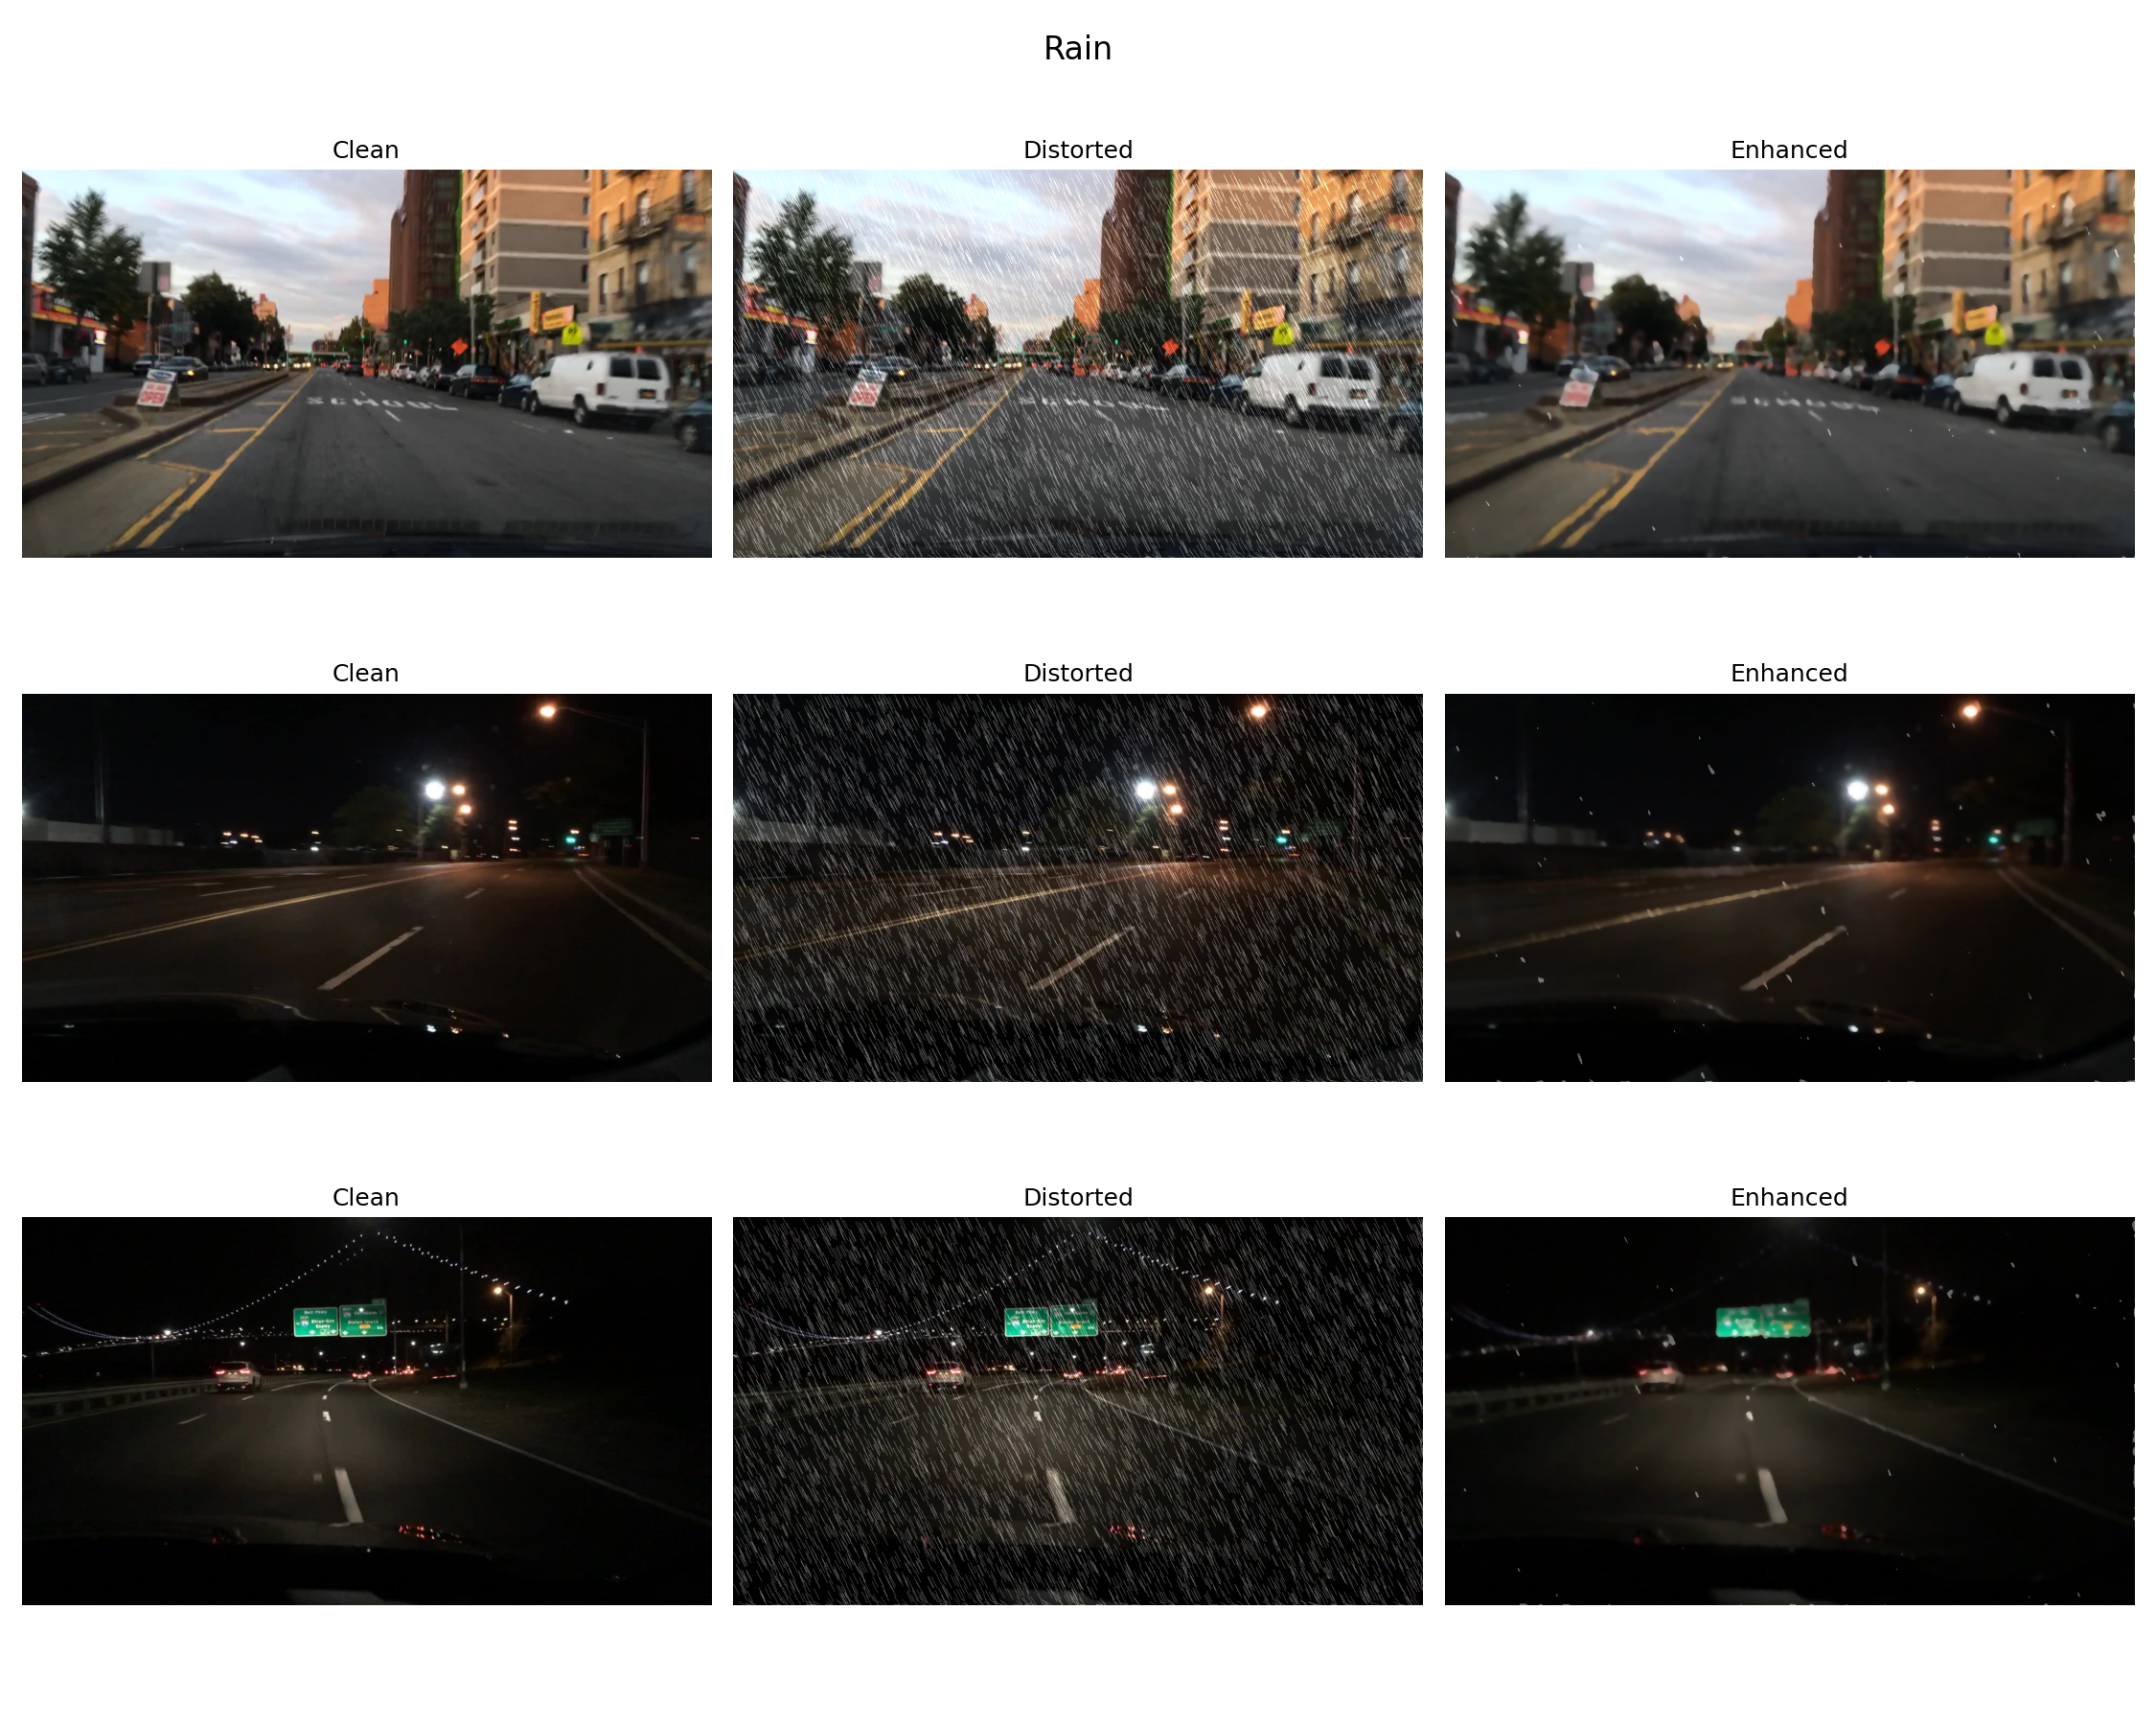
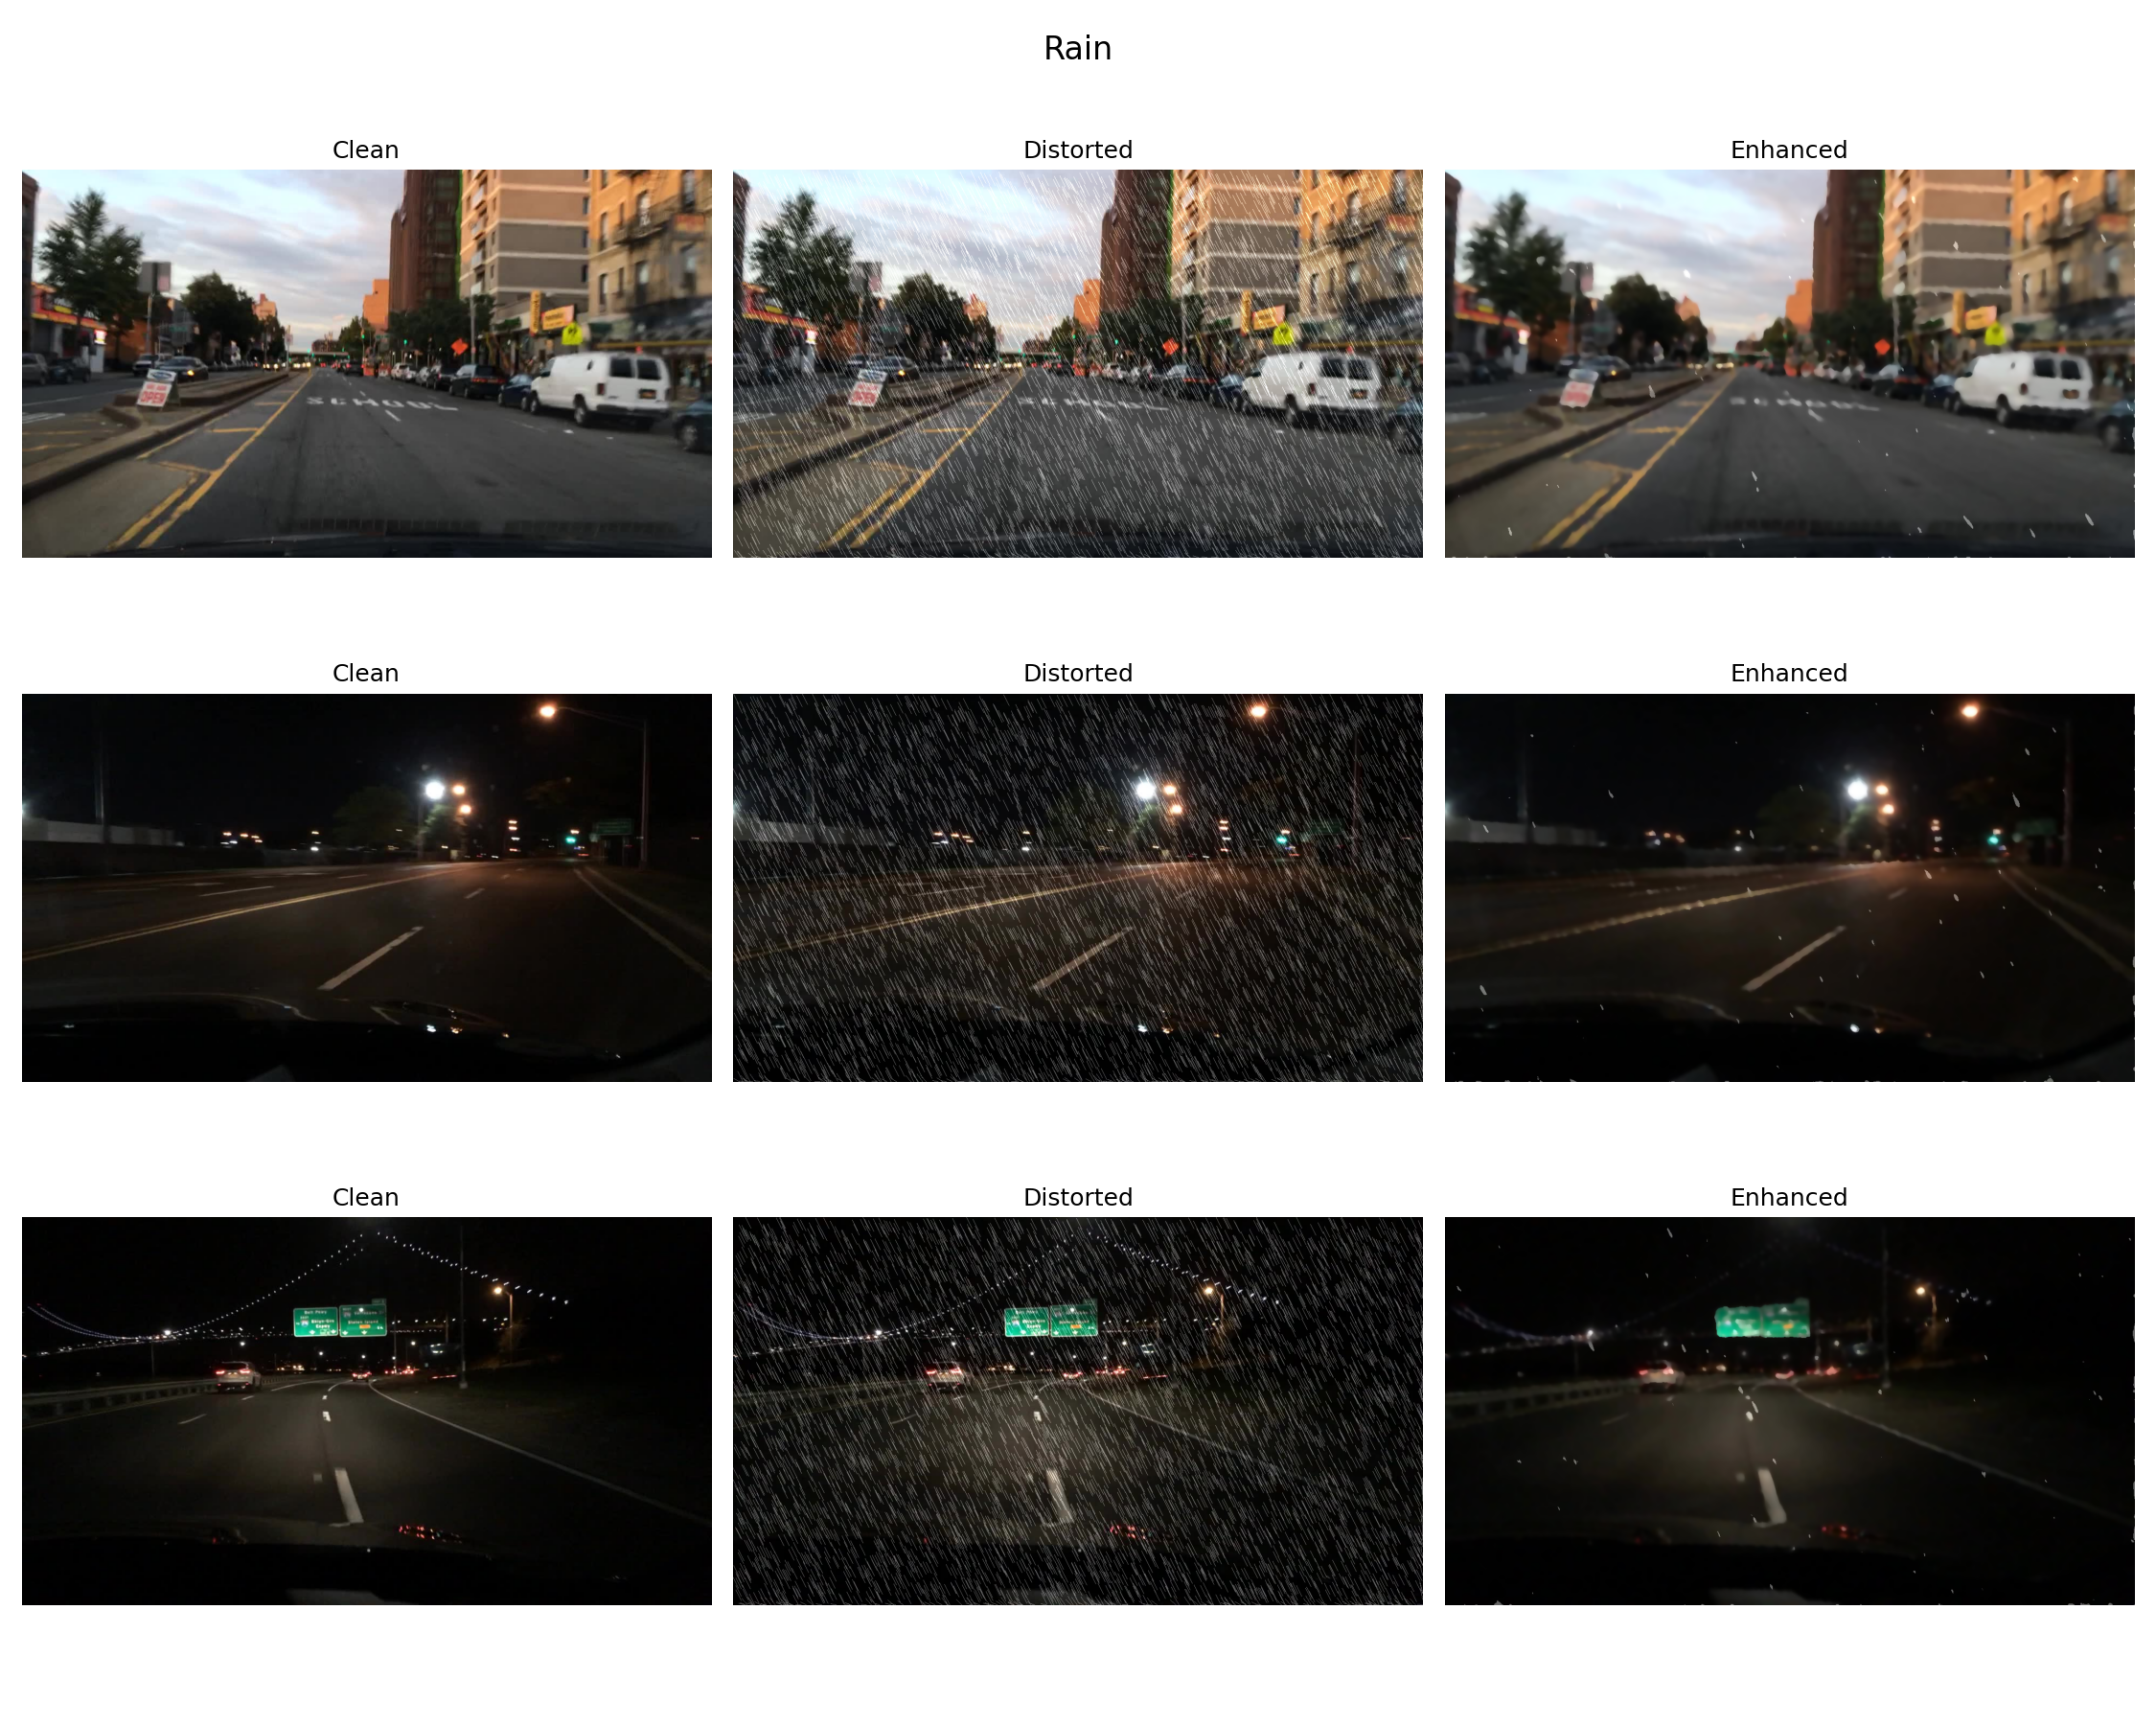
readme and results

Changed region(s): [[0.3422, 0.0933, 0.6844, 0.3422], [0.3422, 0.6844, 0.6533, 0.9333], [0.3422, 0.4044, 0.6533, 0.6222]]

diff --git a/README.md b/README.md
@@ -1,22 +1,278 @@
-# Image-processing
+# Robustness of Vision Algorithms Under Image Distortions
 
-## Dataset
+Image Processing & Computer Vision, Course Project
 
-This project uses the BDD100K dataset from Kaggle:
+## What is this project about?
 
-[https://www.kaggle.com/datasets/marquis03/bdd100k](https://www.kaggle.com/datasets/marquis03/bdd100k)
+Real-world cameras don't produce perfect images. Sensor noise, motion blur, and bad weather all degrade image quality. But most vision models are trained and tested on clean data. So what happens when we throw distorted images at them? Do they break? Can we fix them?
 
-The dataset is not included in this repository because it is too large.
+In this project we take three different vision tasks, apply three types of image distortions, and measure how badly performance drops. Then we try two recovery strategies: classical image enhancement and model fine-tuning.
 
-Download the dataset from Kaggle, unzip it, and place the files in the following structure:
+---
 
-```text
+## The Dataset
+
+We use BDD100K, a large-scale driving dataset with 70K training and 10K validation images. Every image comes from a dashboard camera and has multiple annotations:
+
+- Bounding boxes for cars, people, trucks, etc.
+- Drivable area polygons showing where the car can drive
+- Scene labels like city street, highway, or residential
+
+This means we can run three completely different tasks on the same images.
+
+---
+
+## The Three Tasks
+
+### Task 1: Object Detection (YOLOv8n)
+Find and label objects in the image. We use a pretrained YOLOv8n, a deep learning model trained on COCO. It knows how to detect people, cars, buses, trucks, motorcycles, and traffic lights.
+
+### Task 2: Drivable Area Segmentation (SegFormer-b0)
+Label every pixel as road or not road. We use SegFormer-b0, a deep learning model pretrained on Cityscapes (another driving dataset), so it already understands what a road looks like.
+
+### Task 3: Scene Classification (HOG + SVM)
+Classify the entire image as city street, highway, or residential. This is our classical (non-DL) task. We extract HOG features (which capture edge patterns) and feed them to an SVM classifier trained on BDD100K labels.
+
+This gives us two high-level DL tasks and one low-level classical task, as required by the project.
+
+---
+
+## The Three Distortions
+
+We apply three types of image degradation. All of them preserve image geometry, so the ground truth annotations stay valid.
+
+| Distortion | What it simulates | How it works |
+|------------|-------------------|-------------|
+| Gaussian Noise | Camera sensor noise | Random pixel values added to the image |
+| Motion Blur | Camera or vehicle movement | Directional kernel smears the pixels |
+| Rain | Rainy weather | Semi-transparent streaks drawn over the image |
+
+We measure severity using SNR (Signal-to-Noise Ratio) in dB. Higher SNR means a cleaner image.
+
+---
+
+## The Three Enhancements
+
+Each distortion is paired with a classical technique designed to undo the damage:
+
+| Distortion | Enhancement | How it helps |
+|------------|-------------|-------------|
+| Noise | Non-local means denoising | Averages similar patches to smooth noise while keeping edges |
+| Motion Blur | Unsharp mask | Amplifies edges to recover some sharpness |
+| Rain | Median blur + bilateral filter | Median removes streaks, bilateral smooths the result |
+
+These are simple preprocessing steps. The question is whether they are enough to help the models.
+
+---
+
+## The Metrics
+
+| Task | Metric | Why |
+|------|--------|-----|
+| Detection | mAP0.5 (per class) | Captures both correct detections and false alarms |
+| Detection | Avg confidence | Shows how certain the model is, even when mAP looks ok |
+| Segmentation | Pixel IoU | How much predicted road overlaps with actual road |
+| Segmentation | Precision | Whether the model is predicting road where there is none |
+| Classification | Accuracy (per class) | How often the model gets the scene right |
+
+---
+
+## The Experiment
+
+We follow five steps:
+
+1. **Baseline**: run each model on clean images
+2. **Distortion**: apply each distortion and measure the drop
+3. **Enhancement**: enhance the distorted images and measure recovery
+4. **Fine-tuning**: retrain the DL models on distorted images (3 epochs) to see if they can adapt
+5. **SNR sweep**: vary distortion intensity across 7 levels and plot metric vs SNR
+
+---
+
+## Results
+
+### Distortion Samples
+
+First, let's see what the distortions actually look like on real images. Each row shows clean, distorted, and enhanced side by side on three different images.
+
+#### Noise
+
+![Noise](./results/noise.png)
+
+The noise makes the image grainy, especially in darker regions. The denoising step cleans up most of it, though some fine detail is lost in the process.
+
+#### Motion Blur
+
+![Motion Blur](./results/motion_blur.png)
+
+Everything is smeared horizontally. Signs become unreadable and small objects blend into the background. The unsharp mask brings back some edge contrast, but the lost detail can't be fully recovered since the information was destroyed by the blur kernel.
+
+#### Rain
+
+![Rain](./results/rain.png)
+
+Rain streaks cover large parts of the image. The median + bilateral filter removes most of the visible streaks, though in darker areas some traces remain.
+
+---
+
+### Object Detection (YOLOv8)
+
+#### Ground Truth
+
+This shows a sample image with the human-annotated bounding boxes drawn in green. These are the objects we expect YOLOv8 to find.
+
+![Sample GT](./results/detection/sample_gt.png)
+
+#### Clean vs Distorted vs Enhanced
+
+Each row applies a different distortion. Left column is clean with YOLOv8 predictions, middle is distorted, right is after enhancement. The fourth row stacks all three distortions together.
+
+![All Variants](./results/detection/all_variants.png)
+
+On clean images the model finds most objects confidently. Under noise and rain, some detections vanish or drop in confidence. Motion blur is the most destructive: the model barely finds anything. Enhancement brings some detections back, but the recovery is partial.
+
+#### Baseline Per-Class AP
+
+This chart shows per-class average precision on clean images before any distortion is applied. The red dashed line is the overall mAP0.5.
+
+![Baseline Per-class AP](./results/detection/Per_class_AP_on_clean_images.png)
+
+Larger objects like buses and cars score highest. Smaller or less frequent objects like traffic lights and motorcycles are harder to detect even on clean images.
+
+#### mAP0.5 vs SNR (Performance per Distortion Level)
+
+These three plots show how detection performance changes as distortion gets stronger (moving right means lower SNR, worse image). Solid = distorted, dashed = enhanced, dotted = fine-tuned.
+
+![Performance per SNR](./results/detection/performance_per_snr.png)
+
+For noise, the enhanced line stays above the distorted line, confirming that denoising helps. For motion blur, all three lines are close together, meaning neither enhancement nor fine-tuning can fix the damage. For rain, fine-tuning gives a small advantage at moderate severity levels.
+
+#### mAP0.5 Comparison (Clean vs Distorted vs Enhanced vs Fine-tuned)
+
+This is the summary chart. Four bars per distortion showing the overall mAP0.5 for each condition.
+
+![Comparison](./results/detection/comparison.png)
+
+The gap between green (clean) and red (distorted) shows how much damage each distortion causes. Blue (enhanced) recovers part of it, with the biggest improvement on rain and noise. Orange (fine-tuned) is competitive with enhancement and sometimes better.
+
+#### Per-Class AP0.5 Comparison
+
+These break down the comparison chart by object class for each distortion type.
+
+![Per-class Noise](./results/detection/comparison_per_class_noise.png)
+![Per-class Motion Blur](./results/detection/comparison_per_class_motion_blur.png)
+![Per-class Rain](./results/detection/comparison_per_class_rain.png)
+
+Not all classes are affected equally. Buses and cars survive distortion better than smaller objects. Motorcycles drop to near zero under all distortions. Enhancement helps most for larger objects that have enough pixels to benefit from denoising or sharpening.
+
+#### Average Detection Confidence (Clean vs Distorted vs Enhanced vs Fine-tuned)
+
+This chart shows the average confidence of all predictions, grouped by distortion.
+
+![Confidence](./results/detection/confidence.png)
+
+Interestingly, confidence stays relatively stable compared to mAP. This tells us something important: the model doesn't just make fewer predictions, it also becomes less sure about the ones it does make. Rain causes the biggest confidence drop. Fine-tuning on noise actually pushes confidence above the clean baseline.
+
+---
+
+### Drivable Area Segmentation (SegFormer)
+
+#### Ground Truth
+
+This shows a sample image with the annotated drivable area overlaid in green. This is what the segmentation model should predict.
+
+![Sample GT](./results/segmentation/sample_gt.png)
+
+#### Clean vs Distorted vs Enhanced
+
+Each row applies a different distortion to the same image. The green overlay is the model's predicted road area.
+
+![All Variants](./results/segmentation/all_variants.png)
+
+On clean images the model captures the road surface well. Under noise, the prediction becomes patchy. Motion blur causes the model to either over-predict or under-predict road areas. After enhancement, the predictions generally look closer to the clean version.
+
+---
+
+### Scene Classification (HOG + SVM)
+
+#### Sample Images
+
+Three examples from each scene class. City streets have dense buildings and traffic, highways are open with clear lane markings, and residential areas have houses and quieter roads.
+
+![Sample GT](./results/classification/sample_gt.png)
+
+#### HOG Feature Visualization
+
+These show the HOG features extracted from clean, distorted, and enhanced images. HOG captures edge directions and is what the SVM uses to classify scenes.
+
+![All Variants](./results/classification/all_variants.png)
+
+On clean images the edges are sharp and structured. Noise adds random edges everywhere. Motion blur smears them directionally. Rain introduces vertical streak patterns. The enhanced versions recover some of the original structure, but not perfectly.
+
+#### Accuracy vs SNR (Performance per Distortion Level)
+
+These plots show how classification accuracy changes with increasing distortion severity. Solid = distorted, dashed = enhanced.
+
+![Performance per SNR](./results/classification/performance_per_snr.png)
+
+Classification turns out to be more robust than detection. This makes sense: HOG captures global edge statistics rather than fine object details, so moderate distortions don't change the overall scene structure much. Noise has the biggest impact, while motion blur barely affects accuracy.
+
+#### Accuracy Comparison (Clean vs Distorted vs Enhanced)
+
+Overall accuracy for clean, distorted, and enhanced across all distortions. No fine-tuning bar since HOG + SVM is classical.
+
+![Comparison](./results/classification/comparison.png)
+
+The accuracy drop is much smaller than what we saw in detection. Noise and rain reduce accuracy by a few percent, and enhancement recovers most of it. Motion blur barely changes accuracy at all.
+
+#### Per-Scene Accuracy Comparison
+
+Accuracy broken down by scene class for each distortion.
+
+![Per-class Comparison](./results/classification/comparison_per_class.png)
+
+City streets are classified reliably under all conditions thanks to their distinctive features (buildings, dense traffic). Highway accuracy varies more since open roads have fewer HOG features. Residential scenes are the hardest to classify in general.
+
+---
+
+## Project Structure
+
+```
 Image-processing/
-├── dataset/
+├── main.py              # Entry point (python main.py [task])
+├── distortions.py       # Noise, motion blur, rain
+├── enhancement.py       # Denoise, deblur, derain
+├── detection.py         # YOLOv8 + mAP
+├── segmentation.py      # SegFormer + IoU
+├── classification.py    # HOG + SVM + accuracy
+├── requirements.txt
+├── README.md
+├── dataset/             # BDD100K (not included)
 │   ├── train/
 │   ├── val/
 │   └── test/
-├── ...
-└── requirements
+└── results/             # Generated figures
+    ├── detection/
+    ├── segmentation/
+    └── classification/
 ```
 
+---
+
+## How to Run
+
+Download BDD100K from https://www.kaggle.com/datasets/marquis03/bdd100k and place it in `dataset/`.
+
+```bash
+# Install dependencies
+pip install -r requirements.txt
+
+# Run everything
+python main.py
+
+# Run a specific task
+python main.py detection
+python main.py segmentation
+python main.py classification
+python main.py distortions
+```